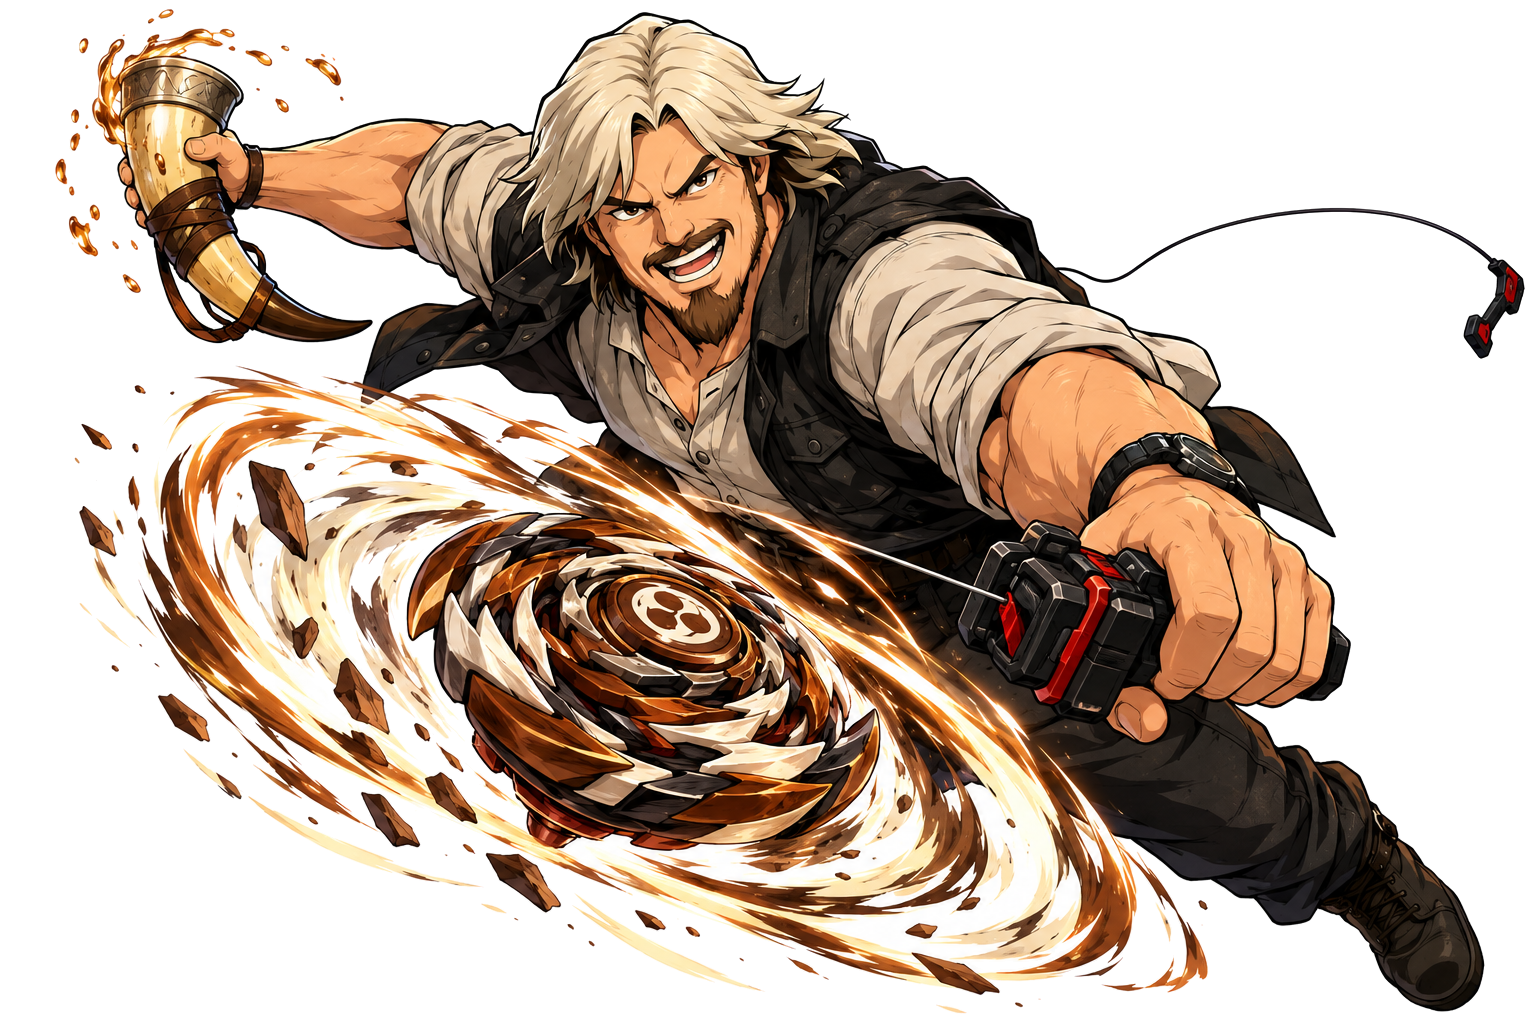
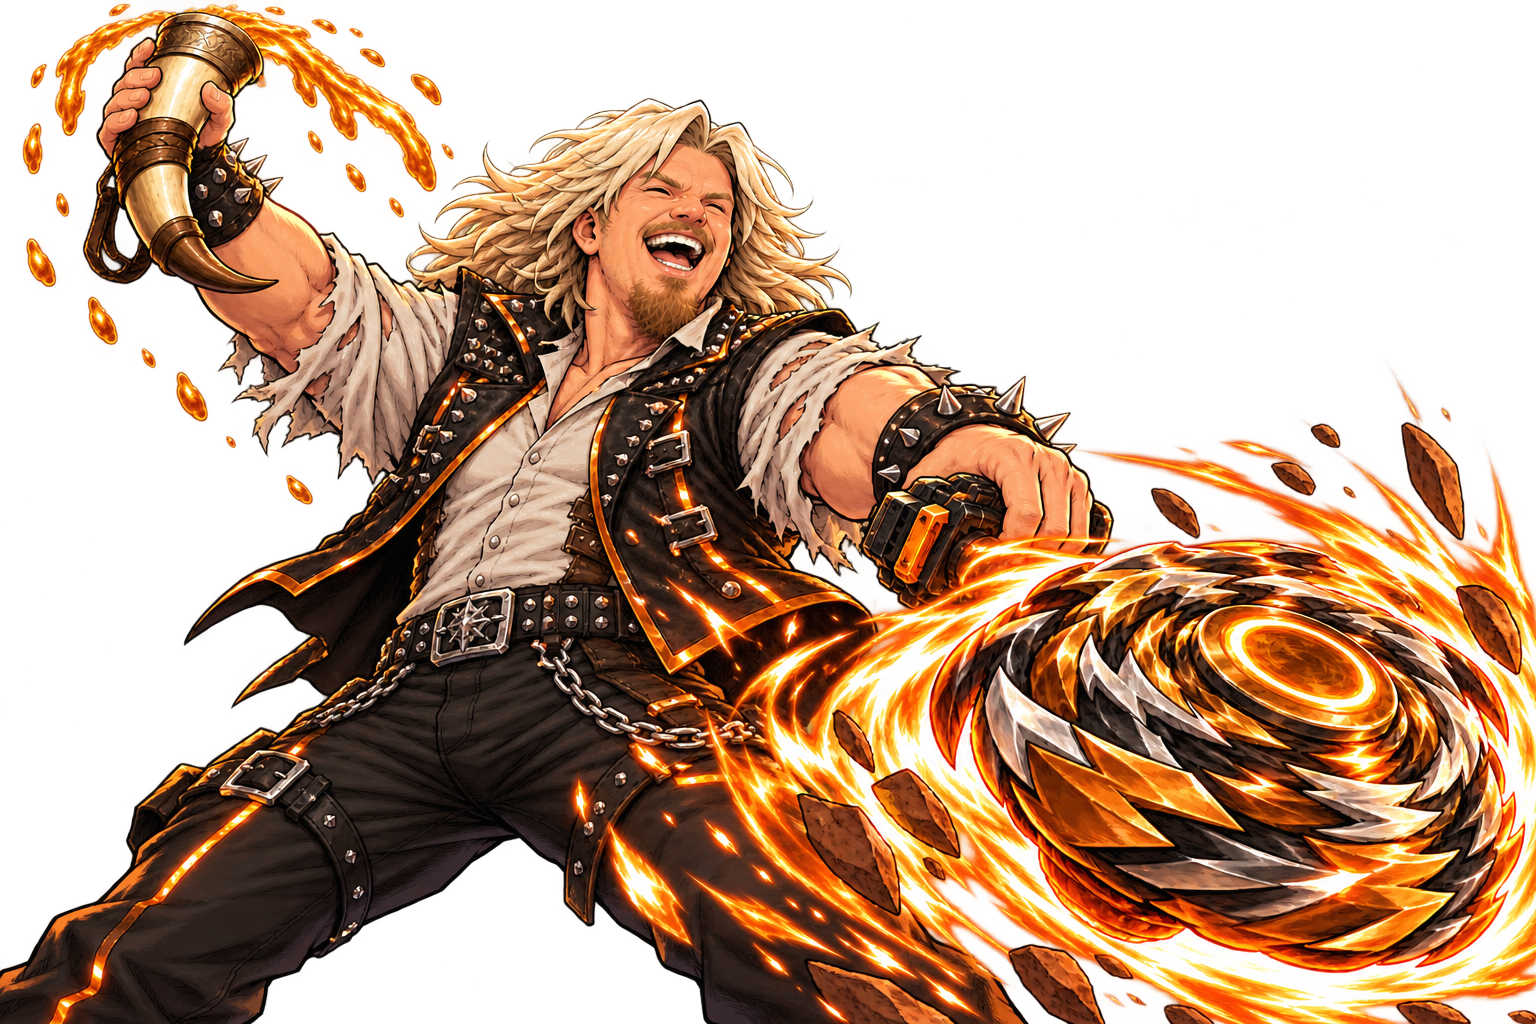
new Underdogger action image (horn toast, heavy-metal edge) and face point

diff --git a/fighter-art/POSE-PLAN.md b/fighter-art/POSE-PLAN.md
@@ -137,6 +137,7 @@ twelve versions of one shot.
 - **Camera:** slightly low, three-quarter.
 - **Outfit, leaning cyberpunk (user's choice), same silhouette:** the cream shirt with rolled sleeves becomes tech fabric with panel seams; the dark waistcoat gets glowing bronze and orange trim; dark trousers, boots, a belt.
 - **Mood:** never count him out.
+- **Status:** **approved 2026-10-30** as `approved/underdogger.png` (version E): the face moved toward his photos (rounder, crinkled laughing eyes, a longer chin beard), tall heroic proportions, a heavy-metal edge (studded leather waistcoat, spiked wristbands, a belt chain, torn sleeves) over the cyberpunk lean, and a huge foreground Beyblade. History in `prompts/underdogger.md`. In the app with a new face point; the victory images still need redoing.
 - **Likeness (user, 2026-10-30):** his photos are old and poor; his CURRENT action and victory art already matches how he looks now, so use that art as the likeness reference (as with the Stancemancer): long, swept-back light blond hair to the jaw, a short brown beard and moustache, dark brown eyes, a rugged grin.
 - **Current art:** a drinking horn in one hand and the fist-at-camera lunge with the launcher (the lunge is the Pugilist's), a cream shirt with rolled sleeves under a dark waistcoat.
 

diff --git a/fighter-art/prompts/underdogger.md b/fighter-art/prompts/underdogger.md
@@ -6,6 +6,10 @@ a head close-up of it and the current belt victory are the likeness references.
 User's choices: a toast-and-launch pose with the drinking horn in hand (his hands-rule
 exception, no ripcord), and a cyberpunk-lean outfit.
 
+**Approved: `approved/underdogger.png`** (a copy of `candidates/underdogger-E.png`).
+1536×1024, transparent, face found at 0.92. In the app with a new face point; no
+mirror flag. A touch of heavy metal on top of the cyberpunk lean (user's call).
+
 ## Attachments (new chat)
 
 From `reference-photos/underdogger/upload/`: `1-style-pugilist.png`,
